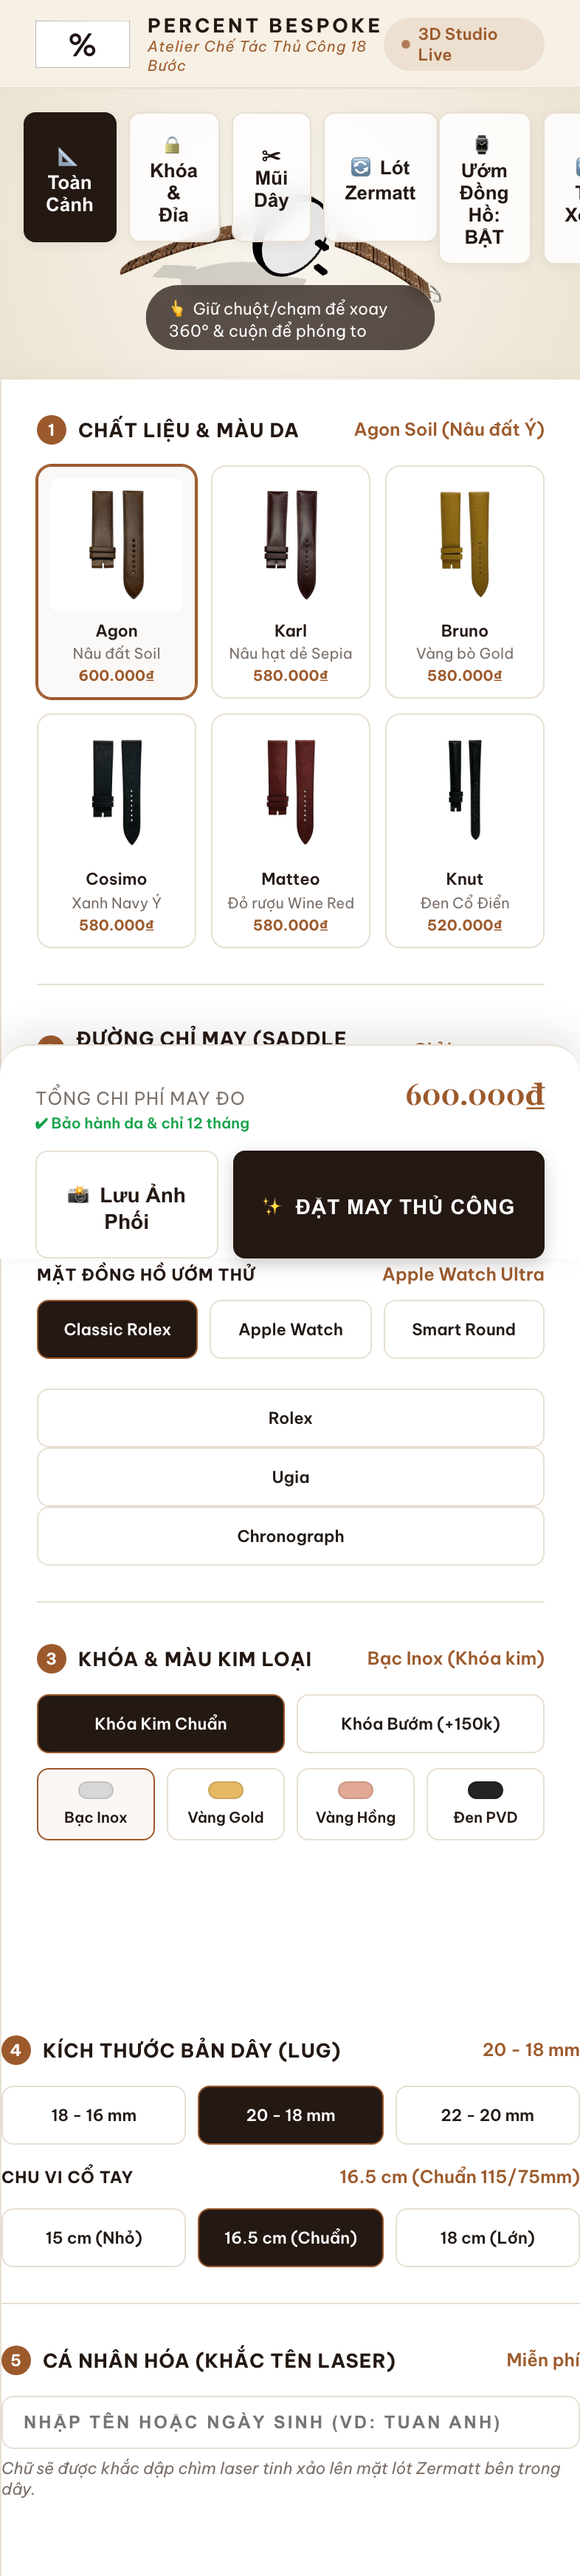
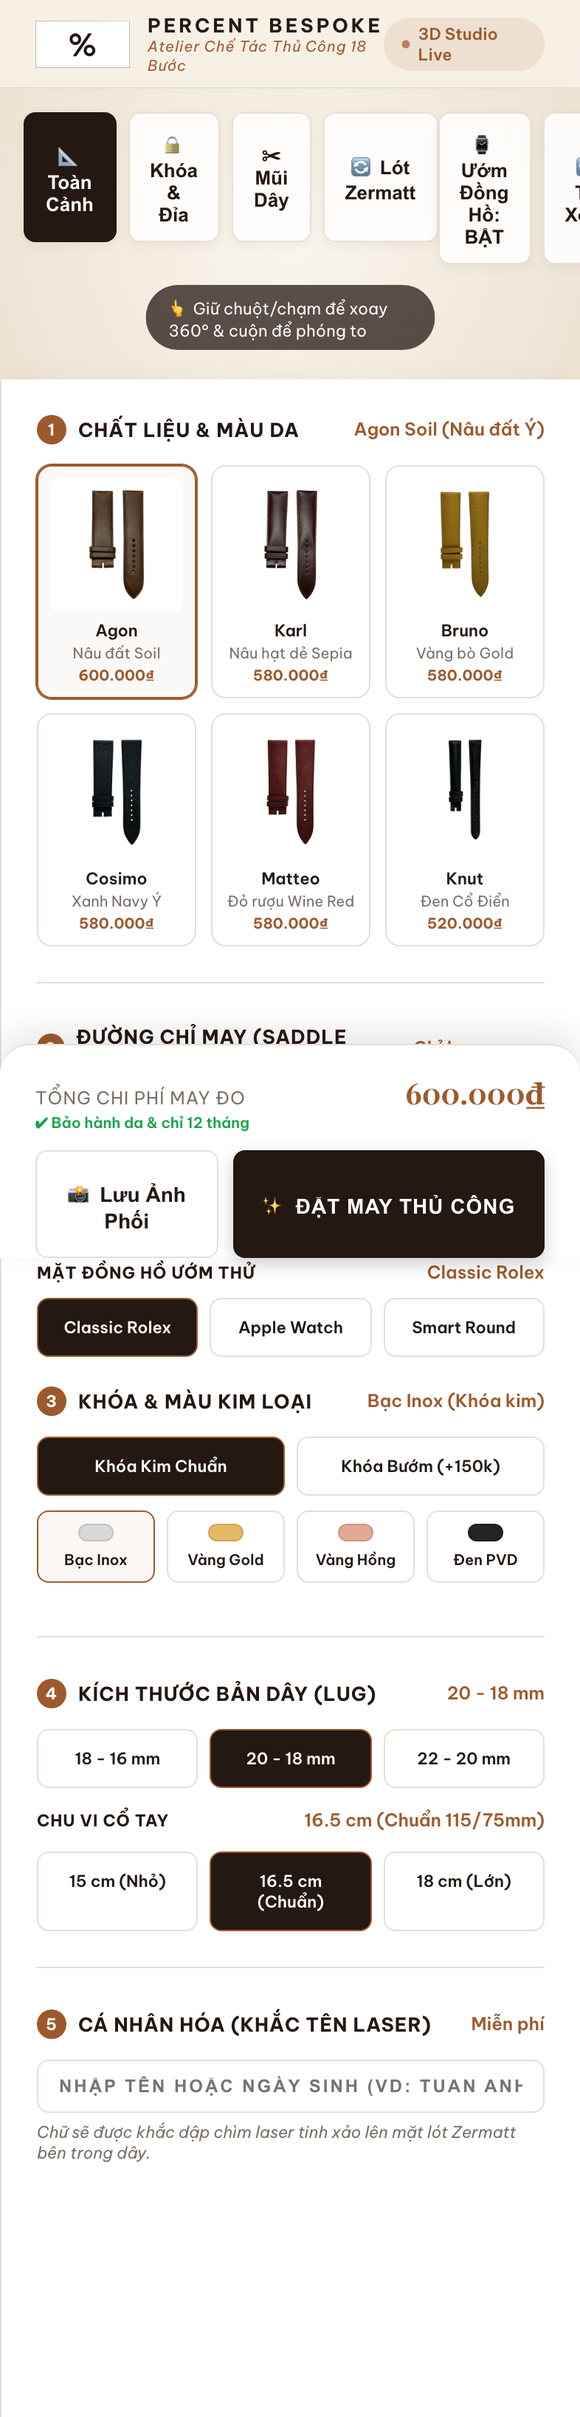
feat: AI PBR textures for strap

diff --git a/3d.html b/3d.html
@@ -793,12 +793,12 @@
   <script>
     // --- DATABASE SẢN PHẨM PERCENT CÓ SẴN (TEXTURE & NORMAL MAP TỰ ĐỘNG BÓC TÁCH TỪ ẢNH THẬT) ---
     const LEATHER_CATALOG = [
-      { id: 'agon-soil', name: 'Percent Agon', color: 'Nâu đất Soil', price: 600000, img: 'img/p01.jpg', tex: 'img/tex_p01.jpg', norm: 'img/norm_p01.jpg', hex: '#634E3F', roughness: 0.55 },
-      { id: 'karl-sepia', name: 'Percent Karl', color: 'Nâu hạt dẻ Sepia', price: 580000, img: 'img/p04.jpg', tex: 'img/tex_p04.jpg', norm: 'img/norm_p04.jpg', hex: '#5E4842', roughness: 0.50 },
-      { id: 'bruno-gold', name: 'Percent Bruno', color: 'Vàng bò Gold', price: 580000, img: 'img/p05.jpg', tex: 'img/tex_p05.jpg', norm: 'img/norm_p05.jpg', hex: '#876527', roughness: 0.60 },
-      { id: 'cosimo-navy', name: 'Percent Cosimo', color: 'Xanh Navy Ý', price: 580000, img: 'img/p08.jpg', tex: 'img/tex_p08.jpg', norm: 'img/norm_p08.jpg', hex: '#1C252B', roughness: 0.45 },
-      { id: 'matteo-wine', name: 'Percent Matteo', color: 'Đỏ rượu Wine Red', price: 580000, img: 'img/p10.jpg', tex: 'img/tex_p10.jpg', norm: 'img/norm_p10.jpg', hex: '#522421', roughness: 0.50 },
-      { id: 'knut-black', name: 'Percent Knut', color: 'Đen Cổ Điển', price: 520000, img: 'img/p03.jpg', tex: 'img/tex_p03.jpg', norm: 'img/norm_p03.jpg', hex: '#2A2C2B', roughness: 0.55 },
+      { id: 'agon-soil', name: 'Percent Agon', color: 'Nâu đất Soil', price: 600000, img: 'img/p01.jpg', tex: 'img/tex_ai_gray.jpg', norm: 'img/tex_ai_normal.jpg', roughMap: 'img/tex_ai_roughness.jpg', hex: '#634E3F', roughness: 0.55 },
+      { id: 'karl-sepia', name: 'Percent Karl', color: 'Nâu hạt dẻ Sepia', price: 580000, img: 'img/p04.jpg', tex: 'img/tex_ai_gray.jpg', norm: 'img/tex_ai_normal.jpg', roughMap: 'img/tex_ai_roughness.jpg', hex: '#5E4842', roughness: 0.50 },
+      { id: 'bruno-gold', name: 'Percent Bruno', color: 'Vàng bò Gold', price: 580000, img: 'img/p05.jpg', tex: 'img/tex_ai_gray.jpg', norm: 'img/tex_ai_normal.jpg', roughMap: 'img/tex_ai_roughness.jpg', hex: '#876527', roughness: 0.60 },
+      { id: 'cosimo-navy', name: 'Percent Cosimo', color: 'Xanh Navy Ý', price: 580000, img: 'img/p08.jpg', tex: 'img/tex_ai_gray.jpg', norm: 'img/tex_ai_normal.jpg', roughMap: 'img/tex_ai_roughness.jpg', hex: '#1C252B', roughness: 0.45 },
+      { id: 'matteo-wine', name: 'Percent Matteo', color: 'Đỏ rượu Wine Red', price: 580000, img: 'img/p10.jpg', tex: 'img/tex_ai_gray.jpg', norm: 'img/tex_ai_normal.jpg', roughMap: 'img/tex_ai_roughness.jpg', hex: '#522421', roughness: 0.50 },
+      { id: 'knut-black', name: 'Percent Knut', color: 'Đen Cổ Điển', price: 520000, img: 'img/p03.jpg', tex: 'img/tex_ai_gray.jpg', norm: 'img/tex_ai_normal.jpg', roughMap: 'img/tex_ai_roughness.jpg', hex: '#2A2C2B', roughness: 0.55 },
     ];
 
     const STITCH_COLORS = [
@@ -1210,6 +1210,9 @@
       scene.add(watchGroup);
     }
 
+    // Lấy map để load roughness
+    const leatherRoughnessMaps = {};
+
     // Tạo Material PBR từ ảnh da thật của Percent kèm vân Normal Map
     function createLeatherMaterial(leatherItem) {
       if (!leatherTextures[leatherItem.id]) {
@@ -1229,12 +1232,21 @@
         leatherNormalMaps[leatherItem.id] = norm;
       }
 
+      if (leatherItem.roughMap && !leatherRoughnessMaps[leatherItem.id]) {
+        const rough = textureLoader.load(leatherItem.roughMap);
+        rough.wrapS = THREE.RepeatWrapping;
+        rough.wrapT = THREE.RepeatWrapping;
+        rough.repeat.set(2.0, 6.0);
+        leatherRoughnessMaps[leatherItem.id] = rough;
+      }
+
       const mat = new THREE.MeshStandardMaterial({
         color: new THREE.Color(leatherItem.hex),
         map: leatherTextures[leatherItem.id],
         normalMap: leatherNormalMaps[leatherItem.id] || null,
         normalScale: new THREE.Vector2(0.85, 0.85),
-        roughness: leatherItem.roughness,
+        roughnessMap: leatherRoughnessMaps[leatherItem.id] || null,
+        roughness: leatherItem.roughMap ? 1.0 : leatherItem.roughness,
         metalness: 0.05
       });
 

diff --git a/index.html b/index.html
@@ -793,12 +793,12 @@
   <script>
     // --- DATABASE SẢN PHẨM PERCENT CÓ SẴN (TEXTURE & NORMAL MAP TỰ ĐỘNG BÓC TÁCH TỪ ẢNH THẬT) ---
     const LEATHER_CATALOG = [
-      { id: 'agon-soil', name: 'Percent Agon', color: 'Nâu đất Soil', price: 600000, img: 'img/p01.jpg', tex: 'img/tex_p01.jpg', norm: 'img/norm_p01.jpg', hex: '#634E3F', roughness: 0.55 },
-      { id: 'karl-sepia', name: 'Percent Karl', color: 'Nâu hạt dẻ Sepia', price: 580000, img: 'img/p04.jpg', tex: 'img/tex_p04.jpg', norm: 'img/norm_p04.jpg', hex: '#5E4842', roughness: 0.50 },
-      { id: 'bruno-gold', name: 'Percent Bruno', color: 'Vàng bò Gold', price: 580000, img: 'img/p05.jpg', tex: 'img/tex_p05.jpg', norm: 'img/norm_p05.jpg', hex: '#876527', roughness: 0.60 },
-      { id: 'cosimo-navy', name: 'Percent Cosimo', color: 'Xanh Navy Ý', price: 580000, img: 'img/p08.jpg', tex: 'img/tex_p08.jpg', norm: 'img/norm_p08.jpg', hex: '#1C252B', roughness: 0.45 },
-      { id: 'matteo-wine', name: 'Percent Matteo', color: 'Đỏ rượu Wine Red', price: 580000, img: 'img/p10.jpg', tex: 'img/tex_p10.jpg', norm: 'img/norm_p10.jpg', hex: '#522421', roughness: 0.50 },
-      { id: 'knut-black', name: 'Percent Knut', color: 'Đen Cổ Điển', price: 520000, img: 'img/p03.jpg', tex: 'img/tex_p03.jpg', norm: 'img/norm_p03.jpg', hex: '#2A2C2B', roughness: 0.55 },
+      { id: 'agon-soil', name: 'Percent Agon', color: 'Nâu đất Soil', price: 600000, img: 'img/p01.jpg', tex: 'img/tex_ai_gray.jpg', norm: 'img/tex_ai_normal.jpg', roughMap: 'img/tex_ai_roughness.jpg', hex: '#634E3F', roughness: 0.55 },
+      { id: 'karl-sepia', name: 'Percent Karl', color: 'Nâu hạt dẻ Sepia', price: 580000, img: 'img/p04.jpg', tex: 'img/tex_ai_gray.jpg', norm: 'img/tex_ai_normal.jpg', roughMap: 'img/tex_ai_roughness.jpg', hex: '#5E4842', roughness: 0.50 },
+      { id: 'bruno-gold', name: 'Percent Bruno', color: 'Vàng bò Gold', price: 580000, img: 'img/p05.jpg', tex: 'img/tex_ai_gray.jpg', norm: 'img/tex_ai_normal.jpg', roughMap: 'img/tex_ai_roughness.jpg', hex: '#876527', roughness: 0.60 },
+      { id: 'cosimo-navy', name: 'Percent Cosimo', color: 'Xanh Navy Ý', price: 580000, img: 'img/p08.jpg', tex: 'img/tex_ai_gray.jpg', norm: 'img/tex_ai_normal.jpg', roughMap: 'img/tex_ai_roughness.jpg', hex: '#1C252B', roughness: 0.45 },
+      { id: 'matteo-wine', name: 'Percent Matteo', color: 'Đỏ rượu Wine Red', price: 580000, img: 'img/p10.jpg', tex: 'img/tex_ai_gray.jpg', norm: 'img/tex_ai_normal.jpg', roughMap: 'img/tex_ai_roughness.jpg', hex: '#522421', roughness: 0.50 },
+      { id: 'knut-black', name: 'Percent Knut', color: 'Đen Cổ Điển', price: 520000, img: 'img/p03.jpg', tex: 'img/tex_ai_gray.jpg', norm: 'img/tex_ai_normal.jpg', roughMap: 'img/tex_ai_roughness.jpg', hex: '#2A2C2B', roughness: 0.55 },
     ];
 
     const STITCH_COLORS = [
@@ -1210,6 +1210,9 @@
       scene.add(watchGroup);
     }
 
+    // Lấy map để load roughness
+    const leatherRoughnessMaps = {};
+
     // Tạo Material PBR từ ảnh da thật của Percent kèm vân Normal Map
     function createLeatherMaterial(leatherItem) {
       if (!leatherTextures[leatherItem.id]) {
@@ -1229,12 +1232,21 @@
         leatherNormalMaps[leatherItem.id] = norm;
       }
 
+      if (leatherItem.roughMap && !leatherRoughnessMaps[leatherItem.id]) {
+        const rough = textureLoader.load(leatherItem.roughMap);
+        rough.wrapS = THREE.RepeatWrapping;
+        rough.wrapT = THREE.RepeatWrapping;
+        rough.repeat.set(2.0, 6.0);
+        leatherRoughnessMaps[leatherItem.id] = rough;
+      }
+
       const mat = new THREE.MeshStandardMaterial({
         color: new THREE.Color(leatherItem.hex),
         map: leatherTextures[leatherItem.id],
         normalMap: leatherNormalMaps[leatherItem.id] || null,
         normalScale: new THREE.Vector2(0.85, 0.85),
-        roughness: leatherItem.roughness,
+        roughnessMap: leatherRoughnessMaps[leatherItem.id] || null,
+        roughness: leatherItem.roughMap ? 1.0 : leatherItem.roughness,
         metalness: 0.05
       });
 

diff --git a/generate_pbr.py b/generate_pbr.py
@@ -1,0 +1,59 @@
+import sys
+from PIL import Image, ImageFilter, ImageOps
+import numpy as np
+
+def generate_maps(input_path, output_normal, output_roughness):
+    # Load image
+    img = Image.open(input_path).convert('RGB')
+    
+    # 1. Generate Roughness Map (Inverted grayscale + contrast)
+    gray = ImageOps.grayscale(img)
+    # Roughness: dark areas (creases) should be rougher (white), flat areas should be shinier (darker)
+    # Actually for leather, flat areas are often slightly shiny, creases are matte.
+    # In Roughness map: White = rough (matte), Black = smooth (shiny).
+    # Let's invert grayscale and adjust levels
+    roughness = ImageOps.invert(gray)
+    
+    # Increase contrast for roughness
+    # Convert to numpy
+    r_arr = np.array(roughness).astype(float)
+    r_arr = ((r_arr - r_arr.min()) / (r_arr.max() - r_arr.min())) * 255.0
+    # Make it generally quite rough (leather is not glass)
+    r_arr = np.clip(r_arr * 0.5 + 128, 0, 255)
+    
+    roughness_img = Image.fromarray(r_arr.astype(np.uint8))
+    roughness_img.save(output_roughness)
+    
+    # 2. Generate Normal Map (Sobel filter approach)
+    # Convert to numpy array of floats
+    g_arr = np.array(gray).astype(float) / 255.0
+    
+    # Sobel kernels
+    sobel_x = np.array([[-1, 0, 1], [-2, 0, 2], [-1, 0, 1]])
+    sobel_y = np.array([[-1, -2, -1], [0, 0, 0], [1, 2, 1]])
+    
+    from scipy.signal import convolve2d
+    dx = convolve2d(g_arr, sobel_x, mode='same', boundary='symm')
+    dy = convolve2d(g_arr, sobel_y, mode='same', boundary='symm')
+    
+    # Normal vector = (-dx, -dy, 1/strength)
+    strength = 3.0
+    dz = np.ones_like(dx) / strength
+    
+    length = np.sqrt(dx**2 + dy**2 + dz**2)
+    nx = -dx / length
+    ny = -dy / length
+    nz = dz / length
+    
+    # Convert to RGB (0-255)
+    # X -> R, Y -> G, Z -> B
+    n_r = ((nx + 1.0) / 2.0 * 255.0).astype(np.uint8)
+    n_g = ((ny + 1.0) / 2.0 * 255.0).astype(np.uint8)
+    n_b = ((nz + 1.0) / 2.0 * 255.0).astype(np.uint8)
+    
+    normal_arr = np.stack([n_r, n_g, n_b], axis=-1)
+    normal_img = Image.fromarray(normal_arr)
+    normal_img.save(output_normal)
+
+if __name__ == '__main__':
+    generate_maps(sys.argv[1], sys.argv[2], sys.argv[3])
